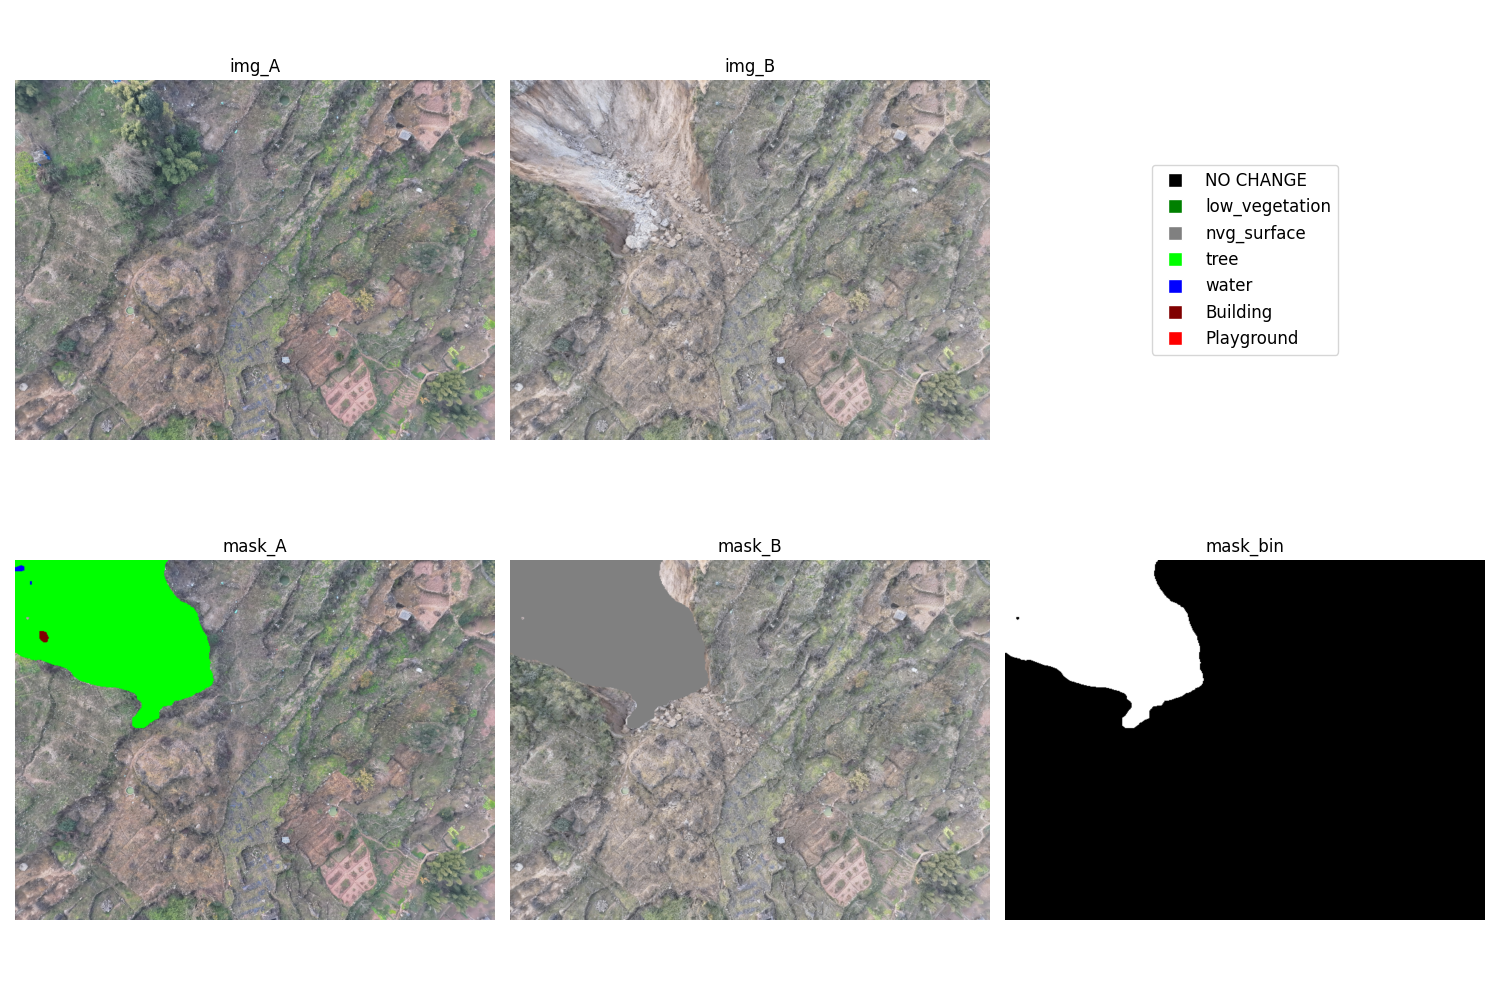
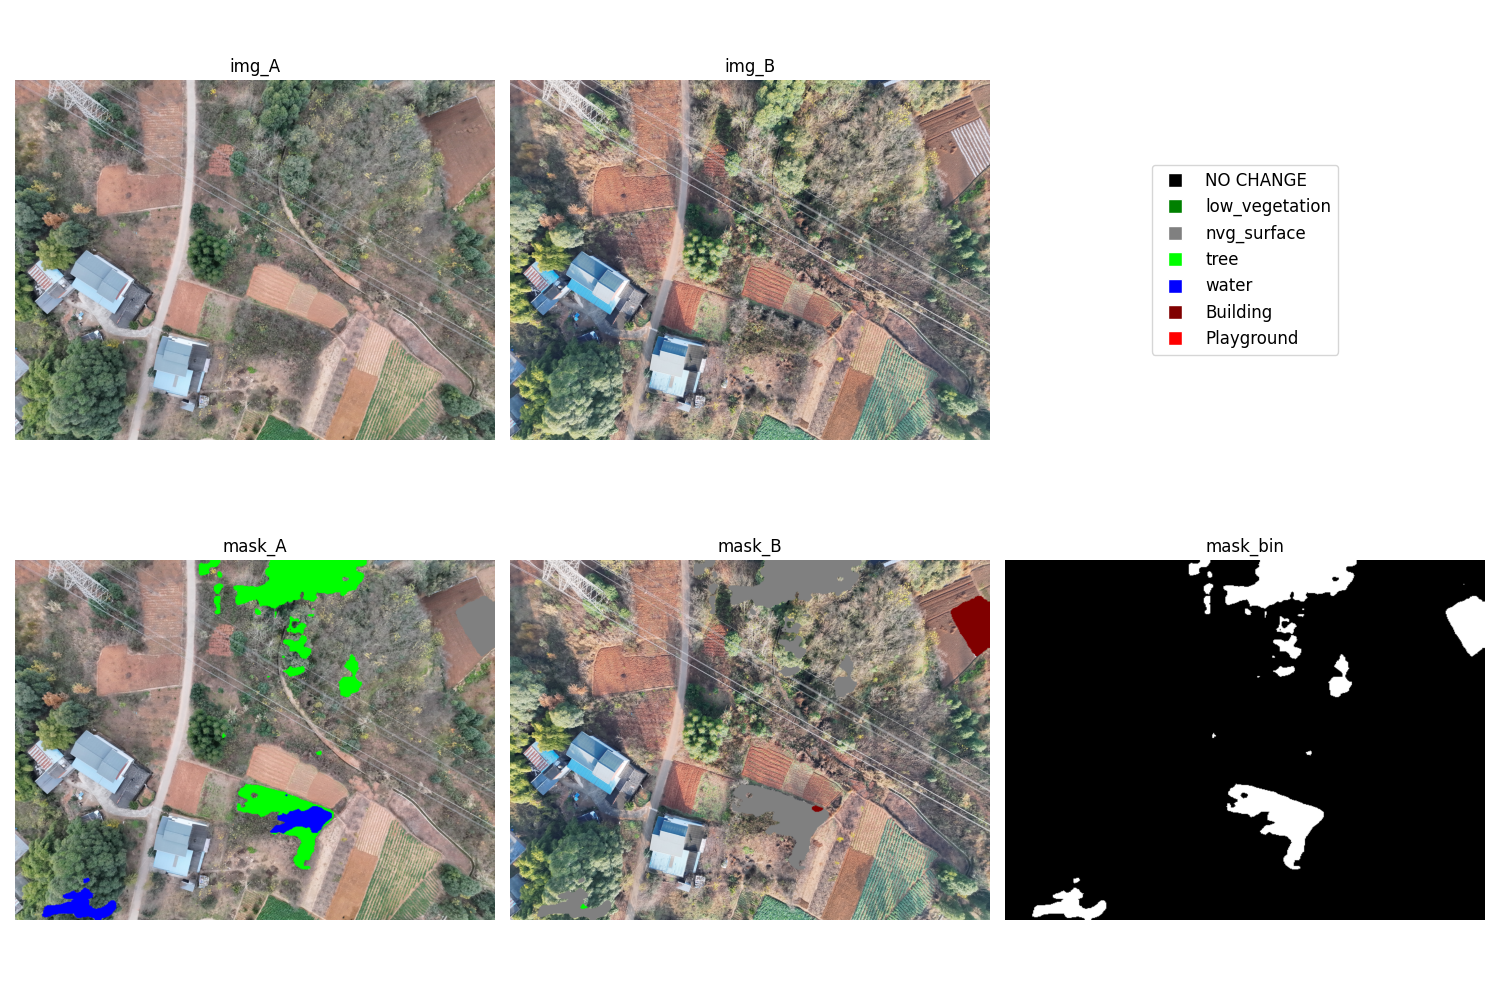
add ClearSCD, DEFO

diff --git a/src/model/DEFO.py b/src/model/DEFO.py
@@ -1,0 +1,58 @@
+from typing import List
+
+import numpy as np
+
+from ..ort_runner import ORTRunner, FinalResult
+from ..ort_runner import sigmoid, logger, cv2, time
+
+
+class DEFO(ORTRunner):
+    def __init__(self, config:dict):
+        super().__init__(config)
+
+    def preProcess(self, img:np.ndarray, use_one:bool = True) -> np.ndarray:
+        shape = img.shape[:2]
+        input_size = (self.config["model_size"], self.config["model_size"])
+        if shape[0] != self.config["model_size"] or shape[1] != self.config["model_size"]:
+            img = cv2.resize(img, input_size)
+        if use_one:
+            mean_array = np.array(self.config["model_mean"], np.float32).reshape(1,3,1,1)
+            std_array  = np.array(self.config["model_std"] , np.float32).reshape(1,3,1,1)
+        else:
+            mean_array = np.array(self.config["model_mean2"], np.float32).reshape(1,3,1,1)
+            std_array  = np.array(self.config["model_std2"] , np.float32).reshape(1,3,1,1)
+        blob = cv2.dnn.blobFromImage(img, scalefactor=1.0,size=input_size,mean=(0,0,0),swapRB=True,ddepth=cv2.CV_32F) # only swapRB and scale
+        blob = (blob - mean_array) / std_array
+        return blob
+
+    def postProcess(self, outputs_blob:List[np.ndarray]) -> FinalResult:
+        output_bin, output1, output2,  = outputs_blob
+        output_bin = sigmoid(output_bin)
+        if output_bin.ndim == 4:
+            output_bin = output_bin.squeeze(1)
+        mask_bin = (output_bin > 0.5)
+        mask_bin = mask_bin.astype(np.uint8)
+
+        np_pa = np.argmax(output1, axis=1).astype(np.uint8) * mask_bin
+        np_pb = np.argmax(output2, axis=1).astype(np.uint8) * mask_bin
+        
+        return FinalResult(mask_bin=mask_bin[0], mask_1=np_pa[0], mask_2=np_pb[0])
+    
+    def infer(self, image1: np.ndarray, image2: np.ndarray):
+        start_time = time.time()
+        input1_blob = self.preProcess(image1)
+        input2_blob = self.preProcess(image2, use_one=False)
+        preProcess_time = time.time() - start_time
+
+        start_time = time.time()
+        outputs_blob:list = self.session.run(self.outputs, {"input1": input1_blob, "input2": input2_blob})
+        inference_time = time.time() - start_time
+        
+        start_time = time.time()
+        result = self.postProcess(outputs_blob)
+        postProcess_time = time.time() - start_time
+        
+        logger("info", f"Average Pre-Process Time:  {preProcess_time*1000:.2f} ms")
+        logger("info", f"Average Inference Time:   {inference_time*1000:.2f} ms")
+        logger("info", f"Average Post-Process Time: {postProcess_time*1000:.2f} ms")
+        return result

diff --git a/src/ort_runner.py b/src/ort_runner.py
@@ -39,17 +39,17 @@ class ORTRunner:
         so = ort.SessionOptions()
         so.graph_optimization_level = ort.GraphOptimizationLevel.ORT_ENABLE_ALL # 启用所有优化
         providers = [
-            ('TensorrtExecutionProvider', {
-                'device_id': 0,
-                'trt_max_workspace_size': 4 * 1024 * 1024 * 1024, # 4 GB
-                'trt_int8_enable': False,
-                'trt_fp16_enable': True,
-                'trt_engine_cache_enable': True,
-                'trt_engine_cache_path': f'{Path(self.config["model_path"]).parent}/trt_cache',
-                'trt_timing_cache_enable': True, # timing cache 加速在其它设备上建立 engine
-                'trt_timing_cache_path': f'{Path(self.config["model_path"]).parent}/trt_cache/time_cache',
-                'trt_force_timing_cache': False, # 仅在与生成 timing cache 的 GPU 型号完全相同的 GPU 上使用
-            }),
+            # ('TensorrtExecutionProvider', {
+            #     'device_id': 0,
+            #     'trt_max_workspace_size': 4 * 1024 * 1024 * 1024, # 4 GB
+            #     'trt_int8_enable': False,
+            #     'trt_fp16_enable': True,
+            #     'trt_engine_cache_enable': True,
+            #     'trt_engine_cache_path': f'{Path(self.config["model_path"]).parent}/trt_cache',
+            #     'trt_timing_cache_enable': True, # timing cache 加速在其它设备上建立 engine
+            #     'trt_timing_cache_path': f'{Path(self.config["model_path"]).parent}/trt_cache/time_cache',
+            #     'trt_force_timing_cache': False, # 仅在与生成 timing cache 的 GPU 型号完全相同的 GPU 上使用
+            # }),
             ('CUDAExecutionProvider', {
                 'device_id': 0,
                 'arena_extend_strategy': 'kNextPowerOfTwo',

diff --git a/src/model/ClearSCD.py b/src/model/ClearSCD.py
@@ -1,0 +1,24 @@
+from typing import List
+
+import numpy as np
+
+from ..ort_runner import ORTRunner, FinalResult
+from ..ort_runner import sigmoid
+
+
+class ClearSCD(ORTRunner):
+    def __init__(self, config:dict):
+        super().__init__(config)
+
+    def postProcess(self, outputs_blob:List[np.ndarray]) -> FinalResult:
+        output_bin, output1, output2,  = outputs_blob
+        output_bin = sigmoid(output_bin)
+        if output_bin.ndim == 4:
+            output_bin = output_bin.squeeze(1)
+        mask_bin = (output_bin > 0.5)
+        mask_bin = mask_bin.astype(np.uint8)
+
+        np_pa = np.argmax(output1, axis=1).astype(np.uint8) * mask_bin
+        np_pb = np.argmax(output2, axis=1).astype(np.uint8) * mask_bin
+
+        return FinalResult(mask_bin=mask_bin[0], mask_1=np_pa[0], mask_2=np_pb[0])

diff --git a/test_gvlm_dataset.py b/test_gvlm_dataset.py
@@ -15,7 +15,7 @@ from src import GVLM_CDataset, GVLM_Sample, FinalResult, logger
 
 def parse_args():
     parser = argparse.ArgumentParser(description="在 GVLM_CD 数据集上进行测试")
-    parser.add_argument("--model", "-m", type=str, help="使用的模型")
+    parser.add_argument("model", type=str, help="使用的模型")
     parser.add_argument("--dataset_path", "-dp", type=str, default="./res/data/GVLM_CD",
                         help="GVLM_CD 数据集路径")
     parser.add_argument("--sample_name", "-sn", type=str, default="A Luoi_Vietnam",

diff --git a/src/model/MambaCD.py b/src/model/MambaCD.py
@@ -15,8 +15,5 @@ class MambaCD(ORTRunner):
         np_cm = np.argmax(output_bin, axis=1).squeeze().astype(np.uint8)
         np_pa = np.argmax(output1, axis=1).astype(np.uint8) * np_cm
         np_pb = np.argmax(output2, axis=1).astype(np.uint8) * np_cm
-
-        print(np.unique(np_cm), np.unique(np_pa), np.unique(np_pb))
-        print(np_cm.shape, np_pa.shape, np_pb.shape)
-        
+                
         return FinalResult(mask_bin=np_cm, mask_1=np_pa[0], mask_2=np_pb[0])

diff --git a/src/model/__init__.py b/src/model/__init__.py
@@ -1,5 +1,7 @@
+from .ClearSCD import ClearSCD
+from .DEFO import DEFO
 from .MambaCD import MambaCD
 from .SCanNet import SCanNet
 from .SE2020 import SE2020
 
-__all__ = ['MambaCD', 'SCanNet', 'SE2020']
+__all__ = ['ClearSCD', 'DEFO', 'MambaCD', 'SCanNet', 'SE2020']

diff --git a/README.md b/README.md
@@ -102,6 +102,32 @@ onnx_program = torch.onnx.export(
 
 [sota-cd](https://hyper.ai/cn/sota/tasks/change-detection)
 
+[Benchmark SECOND Dataset](https://github.com/ale93111/awesome-semantic-change-detection?tab=readme-ov-file#benchmark)
+
 [awesome-remote-sensing-change-detection](https://github.com/wenhwu/awesome-remote-sensing-change-detection) 
 
 [Change-Detection-Review](https://github.com/MinZHANG-WHU/Change-Detection-Review)
+
+## SECOND DATASET
+|               Model               |  mIoU |  SeK  | Score | Status                  |
+| :-------------------------------: | :---: | :---: | :---: | :---------------------: |
+|                TaCo               | 73.77 | 24.73 | 39.44 | No Code                 |
+|               DaCDF               | 72.30 | 21.88 | 37.00 | No Git                  |
+|             UniChange             | 72.85 | 23.02 | 37.97 | No Code                 |
+|              GSTM-SCD             | 73.61 | 24.36 | 39.13 | Mamba-base, have weight |
+|                FoBa               | 74.50 | 24.61 | 39.58 | Mamba-base, have weight |
+|              Mamba-FCS            | 74.07 | 25.50 | 40.07 | No Git                  |
+|             AWMambaSCD            | 73.66 | 24.95 | 39.56 | No Git                  |
+|               BT-SCD              | 73.67 | 24.21 | 39.04 | No Git                  |
+|               STGNet              | 72.83 | 22.45 | 37.56 | No Git                  |
+| SCanNet + CBAM + L<sub>Dice</sub> | 73.63 | 24.25 | 39.06 | No weight               |
+|               SCNet               | 73.85 | 23.99 | 38.95 | wait GDrive Assess      |
+|             VFM-ReSCD             | 73.33 | 24.01 | 38.81 | No weight               |
+|            Semantic-CD            | 75.10 | 23.85 | 39.23 | No Git                  |
+|             MamabaSCD             | 73.68 | 22.92 | 38.15 | Mamba-base, have weight |
+|              SCD-SAM              | 77.75 | 32.44 | 46.03 | SAM-base, have weight   |
+|              LSAFNet              | 74.01 | 24.32 | 39.23 | No weight               |
+|               HGINet              |   --  |   --  |   --  | No weight               |
+|            DEFO-MLTSCD            | 73.76 | 23.73 | 38.74 | `PASS`                  |
+|               DFINet              | 72.61 | 20.12 | 35.87 | No Git                  |
+|              SCanNet              | 73.42 | 23.94 | 38.78 | `PASS`                  |
